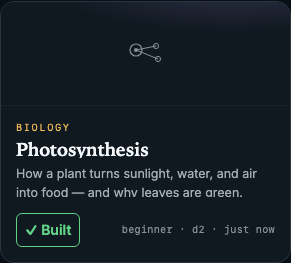
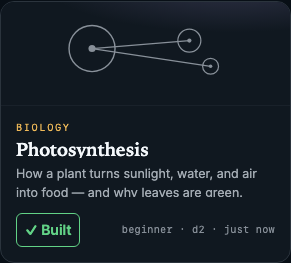
fix(library): scale the PosterMark to fill the poster wash (Figma 6:26/6:27)
The 104px poster wash read as a near-empty band: the <PosterMark/> node-graph
was a tiny 64×36 glyph centred in the 277.9px wash, surrounded by dead space,
while the Figma emblem (icon node 6:27, group 6:28 ~168×56) spreads ACROSS the
band — a large ringed hub upper-left wired to two satellites on the right.

Why: keep the single neutral mark (DESIGN.md §Components → Library sanctions one
motif — no per-category thumbnail data source); only fix the SCALE so the wash
mirrors the frame's silhouette footprint instead of huddling at centre.

- poster-mark.tsx: re-space the geometry into the wash's own 278×104 coordinate
  space (viewBox = the band, so node positions/radii map 1:1 to the rendered
  6:27 emblem) — hub centre 78,47 r26; satellites 188,38 r13 / 212,67 r9; edges
  hub→each satellite. Same topology, same single motif, now at the frame's size.
- globals.css: .library-poster__mark fills ~88% of the wash width (max 246px,
  height auto) so the node-graph spans the band, not a small centred glyph.
- Re-captured the two darwin dense-card visual baselines (the wash changed);
  all 14 e2e tests pass against them. The eyebrow/description/badge/meta body
  rows are untouched.

No DESIGN.md value drifts: it already describes the wash as carrying the
<PosterMark/> node-graph motif mirroring Figma 6:26 and asserts no mark size;
this brings the build closer to that. No pipeline/contract/store change.

diff --git a/src/app/poster-mark.tsx b/src/app/poster-mark.tsx
@@ -1,38 +1,45 @@
 /**
- * The decorative line-art mark in a library poster card's top wash (Figma frame `6:2`, node `6:27` etc.).
+ * The decorative line-art mark in a library poster card's top wash (Figma frame `6:2`, icon node `6:27`).
  *
- * Why a vector, not a per-lesson illustration: the FRAME-phase `LessonCard` (TS-16) carries no category,
- * no thumbnail, and no description — the Figma's per-category icons have no data source yet (DESIGN.md
- * §Components → Library: "the preview thumbnail … has no data source"). So rather than fabricate a
- * category icon (which would imply metadata the card does not hold), the wash carries a single neutral
- * `topic·synthesis` motif: a small node-graph (a hub linked to two satellites), the product's own
- * "synthesize a topic into a lesson" emblem. It is purely decorative chrome (`aria-hidden`), drawn in
- * `currentColor` so the §0 wash tint drives its color (no hardcoded hex).
+ * Why a vector, not a per-lesson illustration: the FRAME-phase `LessonCard` (TS-16) carries no per-category
+ * thumbnail data source — the Figma's four distinct category illustrations have no metadata to drive them
+ * (DESIGN.md §Components → Library). So rather than fabricate a category icon (which would imply metadata the
+ * card does not hold), the wash carries a single neutral `topic·synthesis` motif: a node-graph (a ringed hub
+ * wired to two satellites), the product's own "synthesize a topic into a lesson" emblem. It is purely
+ * decorative chrome (`aria-hidden`), drawn in `currentColor` so the §0 wash tint drives its color (no
+ * hardcoded hex). DESIGN.md sanctions the single neutral mark; only its SCALE is fixed here.
  *
- * Geometry mirrors the Figma poster icon silhouette (`6:28`/`6:34`): a ringed hub upper-left wired to two
- * smaller satellite nodes lower-right, centred in the 104px-tall wash. Strokes are thin (the Figma line
- * weight) and semi-transparent via the parent wash opacity.
+ * Scale + geometry mirror the Figma poster-icon silhouette (`6:27`/`6:28`). The Figma emblem is LARGE — its
+ * group bounding box (`6:28`) is ~168.6×56.5px centred in the 277.9×103.2px wash, i.e. the node-graph spreads
+ * ACROSS the band rather than huddling at its centre. The earlier 64×36 glyph read as a tiny mark in a near-
+ * empty band; this `viewBox` is the wash's own 278×104 coordinate space so the geometry maps 1:1, and the CSS
+ * sizes the SVG to fill ~78% of the wash width (the frame's silhouette footprint). The hub sits upper-left, a
+ * larger satellite upper-right and a smaller satellite lower-right, both wired to the hub by thin edges. Node
+ * positions/radii match the rendered `6:27` emblem (hub centre ~78,47 r26; satellites ~188,38 r13 / ~212,67
+ * r9). Strokes are thin (the Figma line weight) and the parent wash drives opacity via `--text-faint`.
  */
 export function PosterMark() {
   return (
     <svg
       className="library-poster__mark"
-      viewBox="0 0 64 36"
+      viewBox="0 0 278 104"
       xmlns="http://www.w3.org/2000/svg"
       aria-hidden="true"
       focusable="false"
     >
-      {/* edges first, so the nodes sit on top */}
-      <g stroke="currentColor" strokeWidth="1" fill="none" strokeLinecap="round">
-        <line x1="22" y1="15" x2="42" y2="11" />
-        <line x1="22" y1="15" x2="44" y2="24" />
+      {/* edges first, so the nodes sit on top — hub → each satellite */}
+      <g stroke="currentColor" strokeWidth="1.4" fill="none" strokeLinecap="round">
+        <line x1="78" y1="47" x2="188" y2="38" />
+        <line x1="78" y1="47" x2="212" y2="67" />
       </g>
-      {/* hub: a ringed node */}
-      <circle cx="22" cy="15" r="6" fill="none" stroke="currentColor" strokeWidth="1.2" />
-      <circle cx="22" cy="15" r="2" fill="currentColor" />
-      {/* satellites */}
-      <circle cx="42" cy="11" r="2.6" fill="none" stroke="currentColor" strokeWidth="1" />
-      <circle cx="44" cy="24" r="2.6" fill="none" stroke="currentColor" strokeWidth="1" />
+      {/* hub: a ringed node, upper-left */}
+      <circle cx="78" cy="47" r="26" fill="none" stroke="currentColor" strokeWidth="1.6" />
+      <circle cx="78" cy="47" r="4" fill="currentColor" />
+      {/* satellites: a larger one upper-right, a smaller one lower-right */}
+      <circle cx="188" cy="38" r="13" fill="none" stroke="currentColor" strokeWidth="1.4" />
+      <circle cx="188" cy="38" r="2.4" fill="currentColor" />
+      <circle cx="212" cy="67" r="9" fill="none" stroke="currentColor" strokeWidth="1.4" />
+      <circle cx="212" cy="67" r="2" fill="currentColor" />
     </svg>
   );
 }

diff --git a/src/app/globals.css b/src/app/globals.css
@@ -511,9 +511,14 @@ h1 {
     var(--bg-surface);
 }
 
+/* The mark fills the wash the way the Figma emblem does (`6:27`/`6:28`: a ~168×56 silhouette spread across
+   the 277.9px band, NOT a tiny centred glyph). The SVG's viewBox IS the wash's 278×104 space, so it maps
+   1:1; we size it to ~88% of the wash width (capped at the band) and let the height follow the aspect ratio,
+   so the node-graph spans the band instead of huddling at centre. */
 .library-poster__mark {
-  width: 64px;
-  height: 36px;
+  width: 88%;
+  max-width: 246px;
+  height: auto;
   color: var(--text-faint);
 }
 